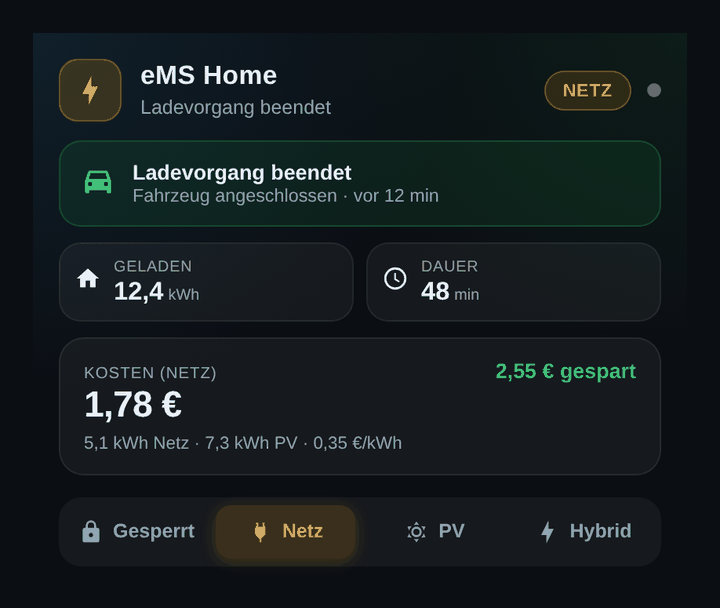
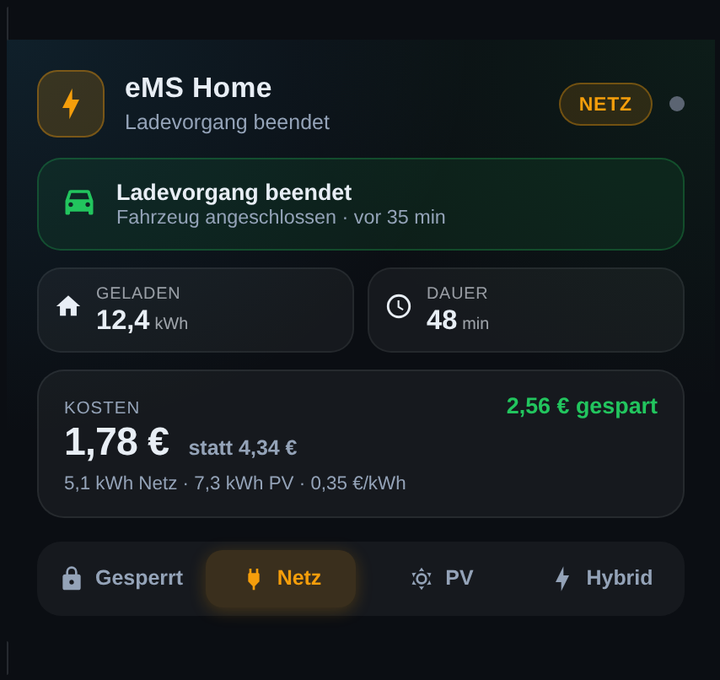
feat(card): make the cost figure add up
The finished card showed '5,15 €' next to '5,77 € gespart', which reads like a
contradiction: the first is what was paid, the second the avoided cost.

- the headline is what was paid, with the counterfactual right next to it
  ('1,78 € statt 4,34 €'), so the green saving is obviously the difference
- the label is plain 'Kosten' – '(Netz)' pretended the amount was grid-only
- the saving is derived from the two displayed amounts, so subtracting them
  really gives the green number (rounding was off by a cent)
- same reference in the running state
- screenshots regenerated

diff --git a/custom_components/ems_home/frontend/ems-home-card.js b/custom_components/ems_home/frontend/ems-home-card.js
@@ -26,7 +26,8 @@ const STRINGS = {
   de: {
     grid: "Netz",
     pv_grid: "PV + Netz",
-    cost_grid: "Kosten (Netz)",
+    cost_grid: "Kosten",
+    instead_of: "statt",
     pv: "PV",
     saved: "gespart",
     finished: "Ladevorgang beendet",
@@ -77,7 +78,8 @@ const STRINGS = {
   en: {
     grid: "Grid",
     pv_grid: "PV + Grid",
-    cost_grid: "Cost (grid)",
+    cost_grid: "Cost",
+    instead_of: "instead of",
     pv: "PV",
     saved: "saved",
     finished: "Charging finished",
@@ -585,6 +587,7 @@ class EmsHomeCard extends HTMLElement {
           <div class="result-main">
             <span class="result-label" data-bind="res-label">${this._t("cost")}</span>
             <b data-bind="res-cost">–</b>
+            <span class="result-ref" data-bind="res-ref"></span>
           </div>
           <span class="result-saved" data-bind="res-saved"></span>
         </div>
@@ -747,23 +750,37 @@ class EmsHomeCard extends HTMLElement {
 
       const total = splitKnown ? gridKwh + pvKwh : num(st[e.session_energy]);
       const cost = splitKnown ? gridKwh * price + pvKwh * pvRate : total * price;
-      const saved = splitKnown ? pvKwh * Math.max(price - pvRate, 0) : 0;
-      const mostlyPv = splitKnown && pvKwh > 0.05;
-      const label = mostlyPv ? this._t("cost_grid") : this._t("cost");
+      // Derive the saving from the two amounts on screen, so subtracting them
+      // really gives the green number (rounding used to be off by a cent).
+      const r2 = (value) => Math.round(value * 100) / 100;
+      const saved = splitKnown
+        ? Math.max(r2(total * price) - r2(gridKwh * price + pvKwh * pvRate), 0)
+        : 0;
+      const label = this._t("cost_grid");
       const split = splitKnown
         ? `${this._fmt(gridKwh, 1)} kWh ${this._t("grid")} · ${this._fmt(pvKwh, 1)} kWh ${this._t("pv")}`
         : "";
 
       if (q("res-cost")) {
         // finished session – costs are the headline
+        const withoutPv = splitKnown ? total * price : cost;
         setText("res-label", label);
         setText("res-cost", this._fmt(cost, 2) + " €");
+        setText(
+          "res-ref",
+          saved >= 0.01 ? `${this._t("instead_of")} ${this._fmt(withoutPv, 2)} €` : ""
+        );
         setText("res-saved", saved >= 0.01 ? `${this._fmt(saved, 2)} € ${this._t("saved")}` : "");
         setText("res-split", [split, `${this._fmt(price, 2)} €/kWh`].filter(Boolean).join(" · "));
       } else {
         setText("cost-label", label);
         setText("cost", this._fmt(cost, 2) + " €");
-        setText("split", split);
+        setText(
+          "split",
+          [split, saved >= 0.01 ? `${this._t("instead_of")} ${this._fmt(total * price, 2)} €` : ""]
+            .filter(Boolean)
+            .join(" · ")
+        );
         setText("saved", saved >= 0.01 ? ` · ${this._fmt(saved, 2)} € ${this._t("saved")}` : "");
       }
     }
@@ -1199,6 +1216,7 @@ class EmsHomeCard extends HTMLElement {
         display: block; font-size: .64rem; text-transform: uppercase; letter-spacing: .5px;
         color: var(--secondary-text-color);
       }
+      .result-ref { font-size: .78rem; font-weight: 550; color: var(--secondary-text-color); margin-left: .45rem; }
       .result-main b { font-size: 1.45rem; font-weight: 700; letter-spacing: -.4px; color: var(--primary-text-color); }
       .result-saved { font-size: .84rem; font-weight: 650; color: #22c55e; white-space: nowrap; }
       .result-split { margin-top: 5px; font-size: .7rem; color: var(--secondary-text-color); }

diff --git a/preview/selftest.html b/preview/selftest.html
@@ -97,11 +97,12 @@ customElements.whenDefined("ems-home-card").then(() => {
   const costText = pricey.shadowRoot.querySelector('[data-bind="cost"]').textContent.trim();
   check("cost prices grid energy only (4.0 kWh * 0,30)", costText === "1,20 €", costText);
   const splitText = pricey.shadowRoot.querySelector('[data-bind="split"]').textContent.trim();
-  check("split line visible", splitText === "4,0 kWh Netz · 6,0 kWh PV", splitText);
+  check("split line shows the split and what it would have cost",
+        splitText === "4,0 kWh Netz · 6,0 kWh PV · statt 3,00 €", splitText);
   const savedText = pricey.shadowRoot.querySelector('[data-bind="saved"]').textContent.trim();
   check("savings shown (6.0 kWh * 0,30)", savedText === "· 1,80 € gespart", savedText);
-  check("label says grid cost",
-        pricey.shadowRoot.querySelector('[data-bind="cost-label"]').textContent.trim() === "Kosten (Netz)");
+  check("label is plain 'Kosten' (the amount is what was paid)",
+        pricey.shadowRoot.querySelector('[data-bind="cost-label"]').textContent.trim() === "Kosten");
 
   const pvPrice = makeCard(makeHass({ over:{
     "sensor.controlroom_ems_home_ladeenergie": S("10.0", {
